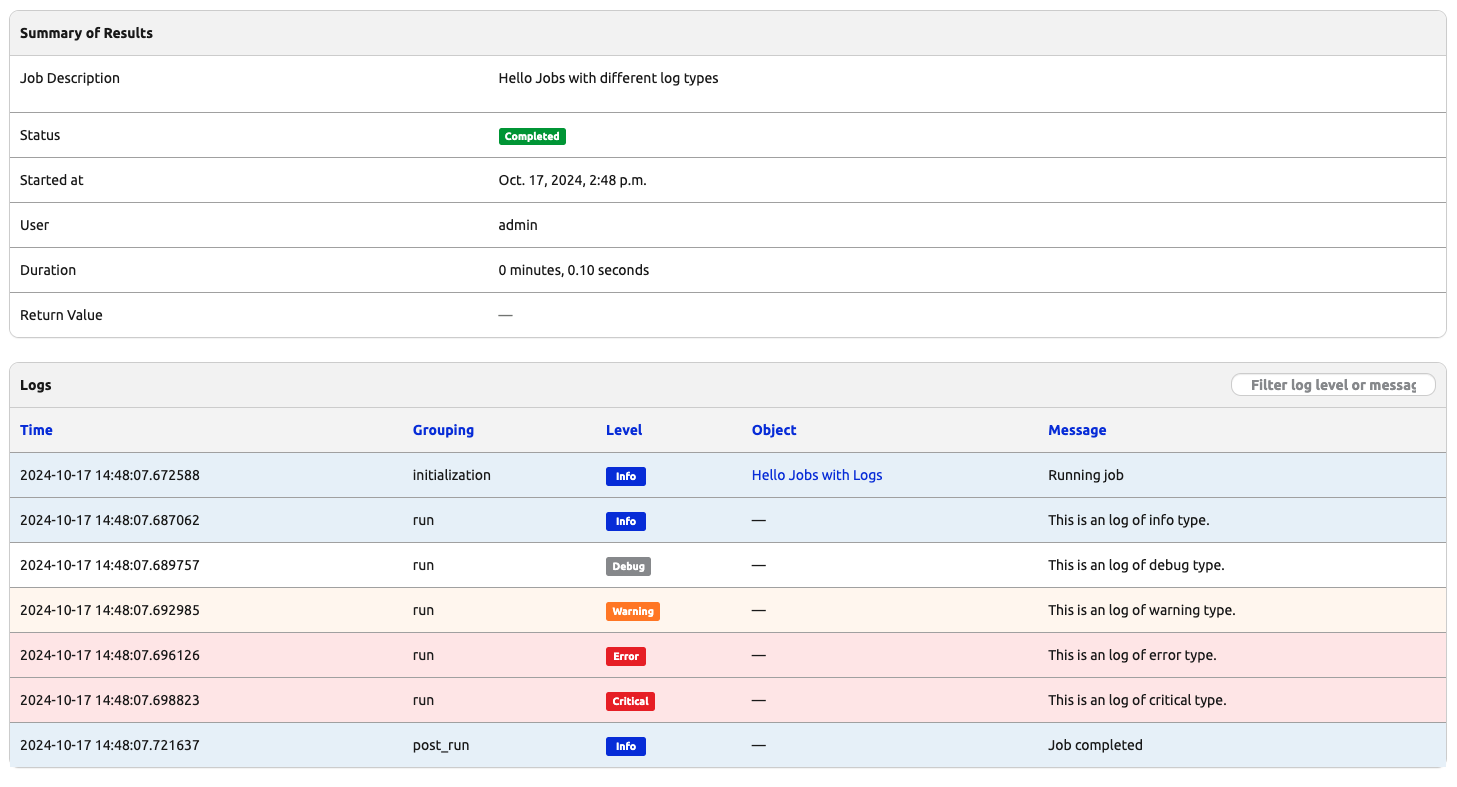
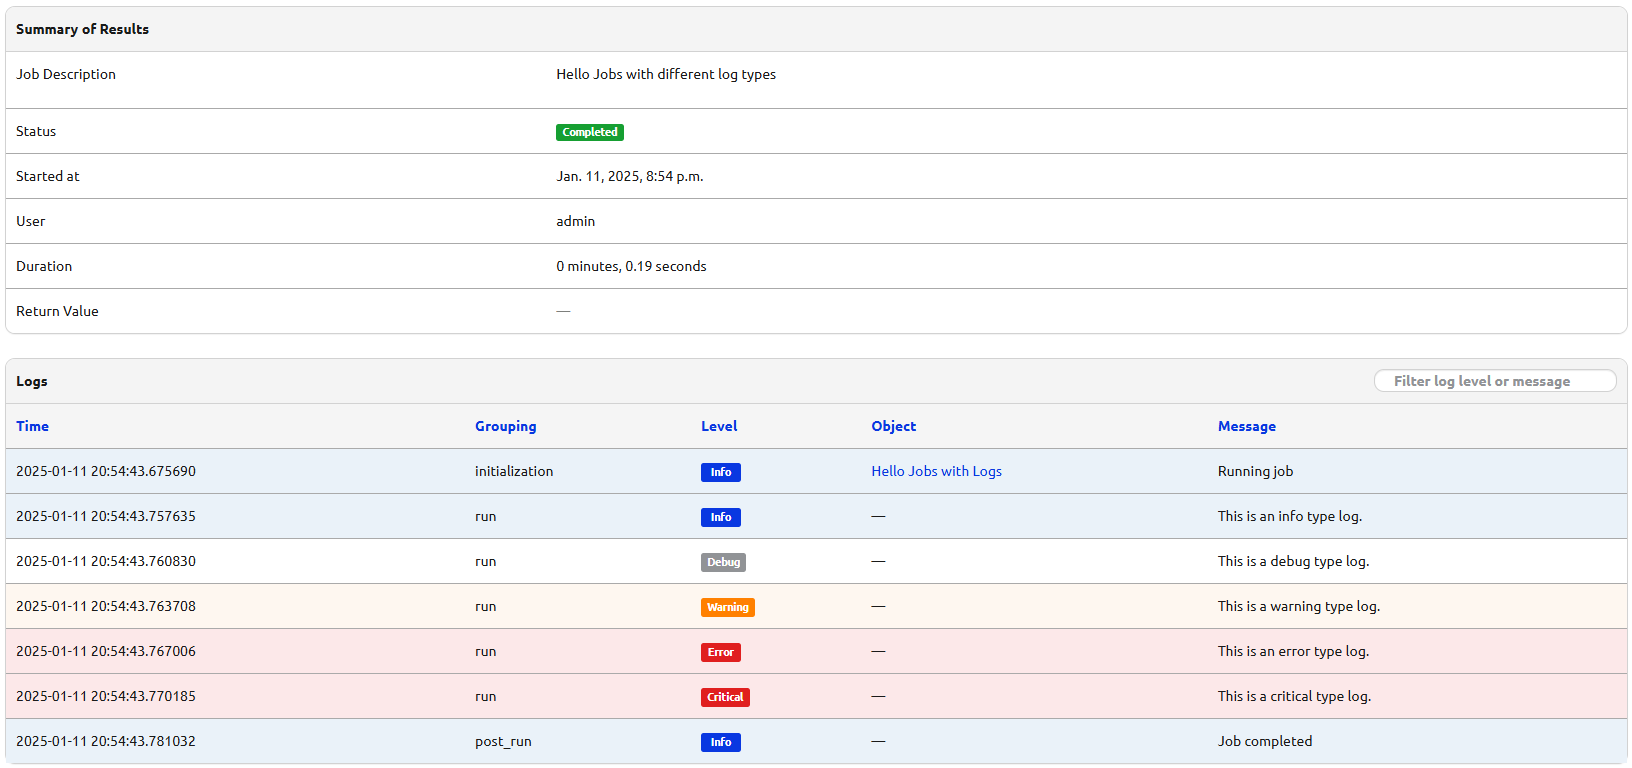
updated day004

diff --git a/Day004_Hello_Jobs_Part_2/README.md b/Day004_Hello_Jobs_Part_2/README.md
@@ -1,34 +1,41 @@
 # Hello Jobs - Part 2: Customization and Features
 
-In today's challenge, we will continue to work on the ```hello_jobs.py``` from [Day 3](https://github.com/networktocode-llc/100-days-of-nautobot-challenge/blob/main/Day003_Hello_Jobs_Part_1/README.md). 
+In today's challenge, we will continue to work on the ```hello_jobs.py``` from [Day 3](https://github.com/networktocode-llc/100-days-of-nautobot-challenge/blob/main/Day003_Hello_Jobs_Part_1/README.md).
 
-Let's navigate to [https://github.com/codespaces/](https://github.com/codespaces/) and restart the codespace instance. 
+Let's navigate to [https://github.com/codespaces/](https://github.com/codespaces/) and restart the codespace instance.
+
+![rebuild_codespace_1.png](../Lab_Setup/lab_related_notes/images/rebuild_codespace_1.png)
+
+Due to what I view as a bug when Codespace is restarted, the Docker daemon does not start automatically. We need to rebuild codespace when this occurs.
+
+```
+@ericchou1 ➜ ~ $ docker ps
+Cannot connect to the Docker daemon at unix:///var/run/docker.sock. Is the docker daemon running?
+```
 
 ## (Note) Rebuild Codespace
 
-Since this is the first two-day series where we recommend stopping Codespace at the end of first day, then restarting the same instance the next day, let's spend a few minutes on the issue regarding rebuilds. For future days, we will just make a note of it (as well as mention it in [Lab Notes](../Lab_Setup/lab_related_notes/README.md)) but not spend as much time on the detail. 
+Since this is the first two-day series where we recommend stopping Codespace at the end of first day then restarting the same instance the next day, let's spend a few minutes on the issue regarding rebuilds. For future days, we will just make a note of it (as well as mention it in [Lab Notes](../Lab_Setup/lab_related_notes/README.md)) but not spend as much time on the details. Be sure to bookmark the Lab Notes!
 
-Due to what I viewed as a bug, when Codespace is restarted, the Docker daemon does not start automatically. We will need to rebuild codespace. 
-
-Click on the settings reel icon on the lower left corder and choose "Command Palette": 
+Click on the settings reel icon on the lower left corner and choose "Command Palette":
 
 ![codespace_rebuild_1](images/codespace_rebuild_1.png)
 
-In the command palette, type in "Codespace: Rebuild Container" and choose the option to rebuild, confirm the rebuild on the next page. 
+In the command palette, type in "Codespace: Rebuild Container" and choose the option to rebuild. Confirm on the next page.
 
 ![codespace_rebuild_2](images/codespace_rebuild_2.png)
 
-Once Codespace is working again, use the terminal window to start Nautobot as we did in Day 3. 
+Once Codespace is working again, use the terminal window to start Nautobot as we did in Day 3.
 
 ## Jobs Meta Class
 
-If we take a closer look at the Job we created, we can see there is no description to the job and the section grouping name is 'Hello_jobs' with an underscore. If we compare that with the existing System Jobs, we can see the System Jobs have both description and spaces between the job names: 
+If we take a closer look at the Job we created, you'll notice that there is no description, and the section grouping name is 'Hello_jobs' with an underscore. If we compare this with other existing System Jobs, we can see that the System Jobs have both descriptions and spaces between the job names:
 
 ![jobs_meta_1](images/jobs_meta_1.png)
 
-How do we change that? Let's refer to the [Nautobot Jobs Developer Guide](https://docs.nautobot.com/projects/core/en/stable/development/jobs/#module-metadata-attributes) section on Metadata attributes. 
+How do we change that? Let's refer to the Metadata Attributes section of the [Nautobot Jobs Developer Guide](https://docs.nautobot.com/projects/core/en/stable/development/jobs/#module-metadata-attributes). 
 
-From the documentation, we see that we can customize the grouping name using a global constant as well as define the job-specific name using the `Meta` class. Let's make the following change: 
+From the documentation, we can see that we can customize the grouping name using a global constant of ```name```, as well as defining the job-specific name using the ```meta``` class. Let's make the following change: 
 
 ```python
 from nautobot.apps.jobs import Job, register_jobs
@@ -53,11 +60,11 @@ register_jobs(
 ```
 
 > [!IMPORTANT]
-> Register jobs is an important step that many people, myself included, might miss when first introduced to Nautobot jobs, don't forget that line at the end.  
+> Register jobs is an important step that many people, myself included, might miss when first introduced to Nautobot jobs. Don't forget that line at the end.  
 
-But nothing happens on the UI, what can be the issue? 
+After saving the changes, nothing happens on the UI. What could be the issue?
 
-Remember we need to do a ```invoke post-upgrade``` for the changes to take effect: 
+Remember, we need to do an ```invoke post-upgrade``` for the changes to take effect:
 
 ```
 @ericchou1 ➜ ~ $ cd nautobot-docker-compose/
@@ -65,19 +72,19 @@ Remember we need to do a ```invoke post-upgrade``` for the changes to take effec
 (nautobot-docker-compose-py3.10) @ericchou1 ➜ ~/nautobot-docker-compose (main) $ invoke post-upgrade
 ```
 
-We can see the changes have been taken by navigating back to the Nautobot Jobs UI: 
+We can now see that the changes have been applied when we navigate back to the Nautobot Jobs UI:
 
 ![jobs_meta_2](images/jobs_meta_2.png)
 
-Let's see how we can add more logging to the job in the next section. 
+Let's see how we can add more logging to the job in the next section.
 
 ## Add more Logging
 
-We saw we can log our progress with ```self.logger.debug("Hello, this is my first Nautobot Job.")``` in the code. What if we want to log more data in different severity level? 
+In Day 3, we saw how we can log our progress with ```self.logger.debug("Hello, this is my first Nautobot Job.")``` in the code. What if we want to log more data with different severity levels?
 
-Again, the [Nautobot Jobs Developer Guide](https://docs.nautobot.com/projects/core/en/stable/development/jobs/#logging) is our friend here. Under logging, we can just as easily do that with the logger object. 
+Again, the [Nautobot Jobs Developer Guide](https://docs.nautobot.com/projects/core/en/stable/development/jobs/#logging) is our friend here. Under logging, we can just as easily do that using logger objects.
 
-Let's create a second job in the same file with more logging: 
+Let's create a second job in the same file with more logging:
 
 ```python
 class HelloJobsWithLogs(Job):
@@ -87,14 +94,14 @@ class HelloJobsWithLogs(Job):
         description = "Hello Jobs with different log types"
 
     def run(self):
-        self.logger.info("This is an log of info type.")
-        self.logger.debug("This is an log of debug type.")
-        self.logger.warning("This is an log of warning type.")
-        self.logger.error("This is an log of error type.")
-        self.logger.critical("This is an log of critical type.")
+        self.logger.info("This is an info type log.")
+        self.logger.debug("This is a debug type log.")
+        self.logger.warning("This is a warning type log.")
+        self.logger.error("This is an error type log.")
+        self.logger.critical("This is a critical type log.")
 ```
 
-Don't forget to register the new job: 
+Don't forget to register the new job:
 
 ```python
 register_jobs(
@@ -103,7 +110,7 @@ register_jobs(
 )
 ```
 
-This is how the file would look at this point: 
+This is how the file should look at this point:
 
 ```python
 from nautobot.apps.jobs import Job, register_jobs
@@ -126,12 +133,12 @@ class HelloJobsWithLogs(Job):
         description = "Hello Jobs with different log types"
 
     def run(self):
-        self.logger.info("This is an log of info type.")
-        self.logger.debug("This is an log of debug type.")
-        self.logger.warning("This is an log of warning type.")
-        self.logger.error("This is an log of error type.")
-        self.logger.critical("This is an log of critical type.")
-
+        self.logger.info("This is an info type log.")
+        self.logger.debug("This is a debug type log.")
+        self.logger.warning("This is a warning type log.")
+        self.logger.error("This is an error type log.")
+        self.logger.critical("This is a critical type log.")
+       
 
 register_jobs(
     HelloJobs,
@@ -139,27 +146,27 @@ register_jobs(
 )
 ```
 
-After performing a `post_upgrade`, we will see the new job showing up under the same group: 
+After performing a ```post_upgrade```, we will see the new job appear under the same group:
 
 ![jobs_logging_2](images/jobs_logging_2.png)
 
-We can enable the job and run it, the newly colored logs would show up: 
+We can now enable the job and run it. Notice the new log types and the colors associated with the level of severity:
 
 ![jobs_logging_3](images/jobs_logging_3.png)
 
-In the next job, we will see how we can provide some user input in our jobs. 
+In the next job, we will see how we can provide some user input in our jobs.
 
 ## User Input
 
-We will learn more about the Django Object model in the future challenges. However, let's do a simple user input in the next job example. 
+We will learn more about the Django Object model in the future challenges. For now, let's add a simple user input function in the next job example.
 
-Let's add ```StringVar``` to the import statement: 
+First, let's add ```StringVar``` to the import statement:
 
 ```python
 from nautobot.apps.jobs import Job, register_jobs, StringVar
 ```
 
-Then we can create a new job with user input, note that we create a variable ```username``` using the ```StringVar```, and we pass it in to the ```run(self, username)``` as an attribute: 
+Next, we can create a new job with user input. Note that we create a variable ```username``` using ```StringVar```, and then pass it to the ```run(self, username)``` method as an attribute:
 
 ```python
 class HelloJobsWithInputs(Job):
@@ -179,25 +186,24 @@ register_jobs(
 )
 ```
 
-We will see an additional field when we try to run the job: 
+We will see an additional field once we run the job:
 
 ![jobs_input_1](images/jobs_input_1.png)
 
-The result page will display what we have entered in as the user: 
+The result page will display what we entered as the user:
 
 ![jobs_input_2](images/jobs_input_2.png)
 
-That is it for the Day 4 challenge! 
+That is it for the Day 4 challenge!
 
 ## Day 4 To Do
 
-Remember to stop and delete the codespace instance on [https://github.com/codespaces/](https://github.com/codespaces/). 
+Remember to stop and delete the Codespace instance on [https://github.com/codespaces/](https://github.com/codespaces/).
 
-Go ahead and post a screenshot of the newly created jobs on a social media platform of your choice, make sure you use the tag `#100DaysOfNautobot` `#JobsToBeDone` and tag `@networktocode`, so we can share your progress! 
+Go ahead and post a screenshot of the newly created jobs on a social media platform of your choice. Make sure you use the tags `#100DaysOfNautobot` `#JobsToBeDone` and tag `@networktocode` so we can share your progress!
 
-In tomorrow's challenge, we dive deeper into Django ORM. See you tomorrow! 
+In tomorrow's challenge, we dive deeper into Django ORM. See you tomorrow!
 
 [X/Twitter](<https://twitter.com/intent/tweet?url=https://github.com/networktocode/100-days-of-nautobot-challenge&text=I+jst+completed+Day+4+of+the+100+days+of+nautobot+challenge+!&hashtags=100DaysOfNautobot,JobsToBeDone>)
 
 [LinkedIn](https://www.linkedin.com/) (Copy & Paste: I just completed Day 4 of 100 Days of Nautobot, https://github.com/networktocode/100-days-of-nautobot-challenge, challenge! @networktocode #JobsToBeDone #100DaysOfNautobot)
-
